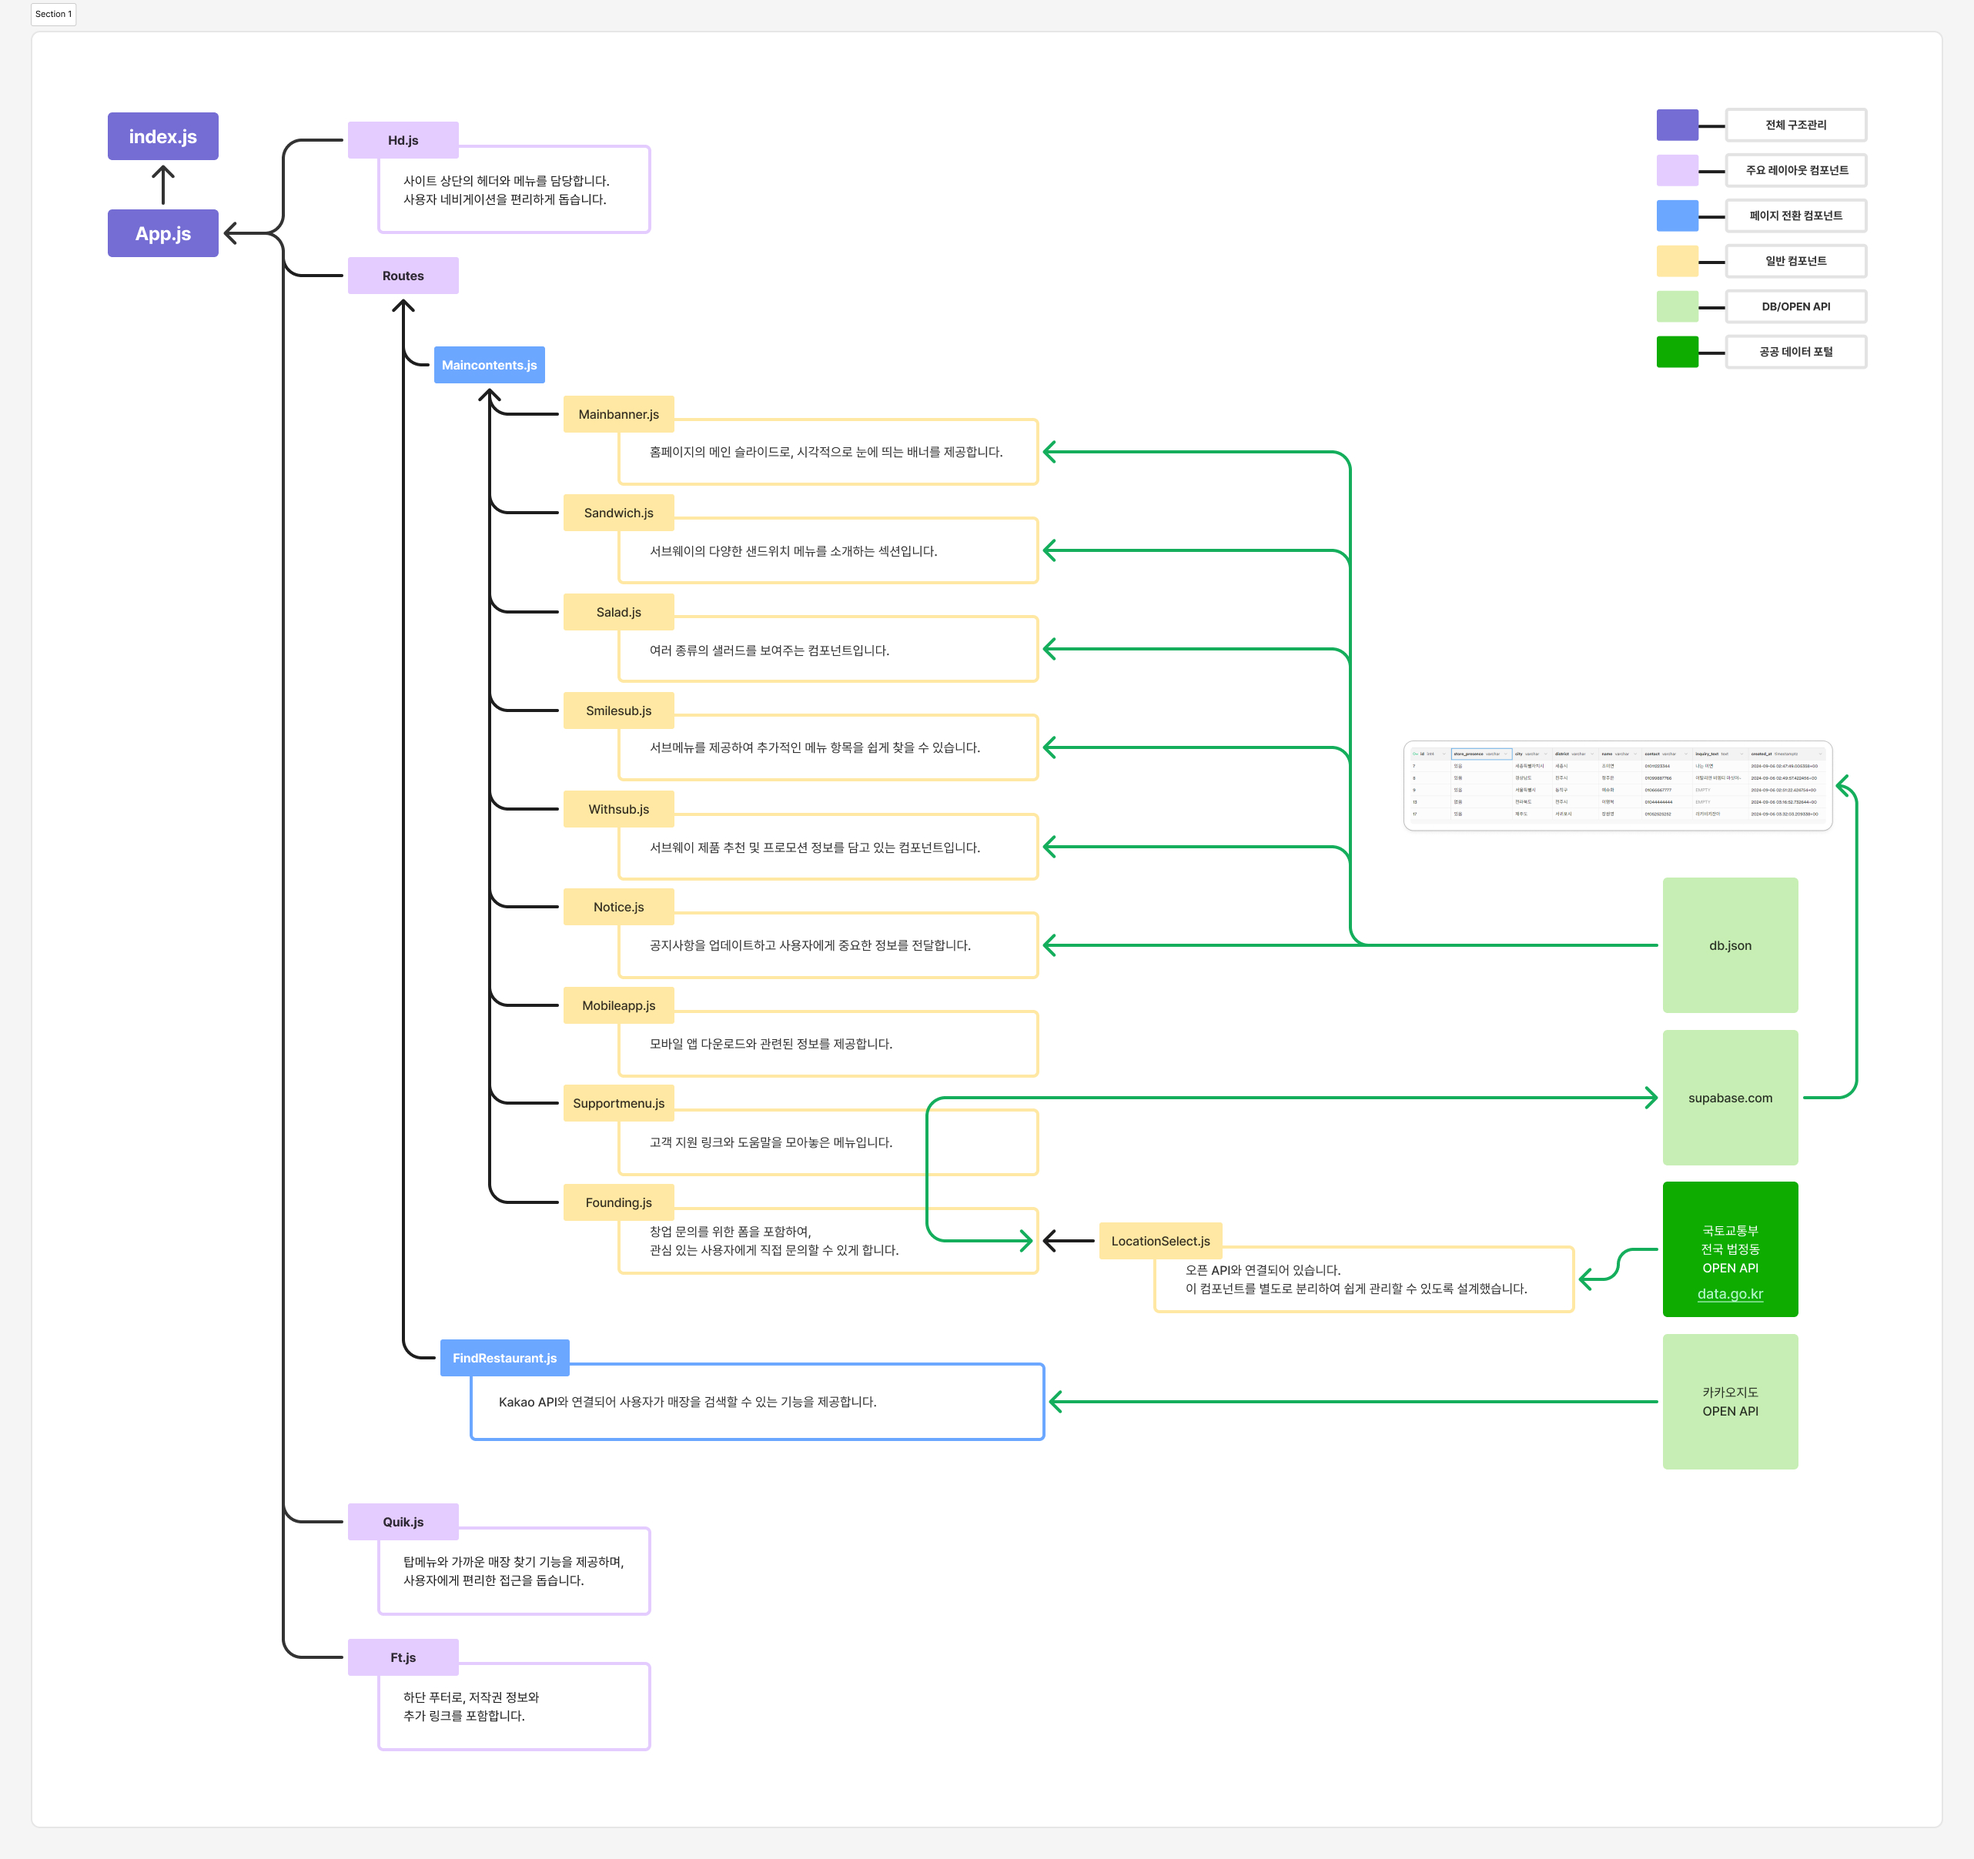
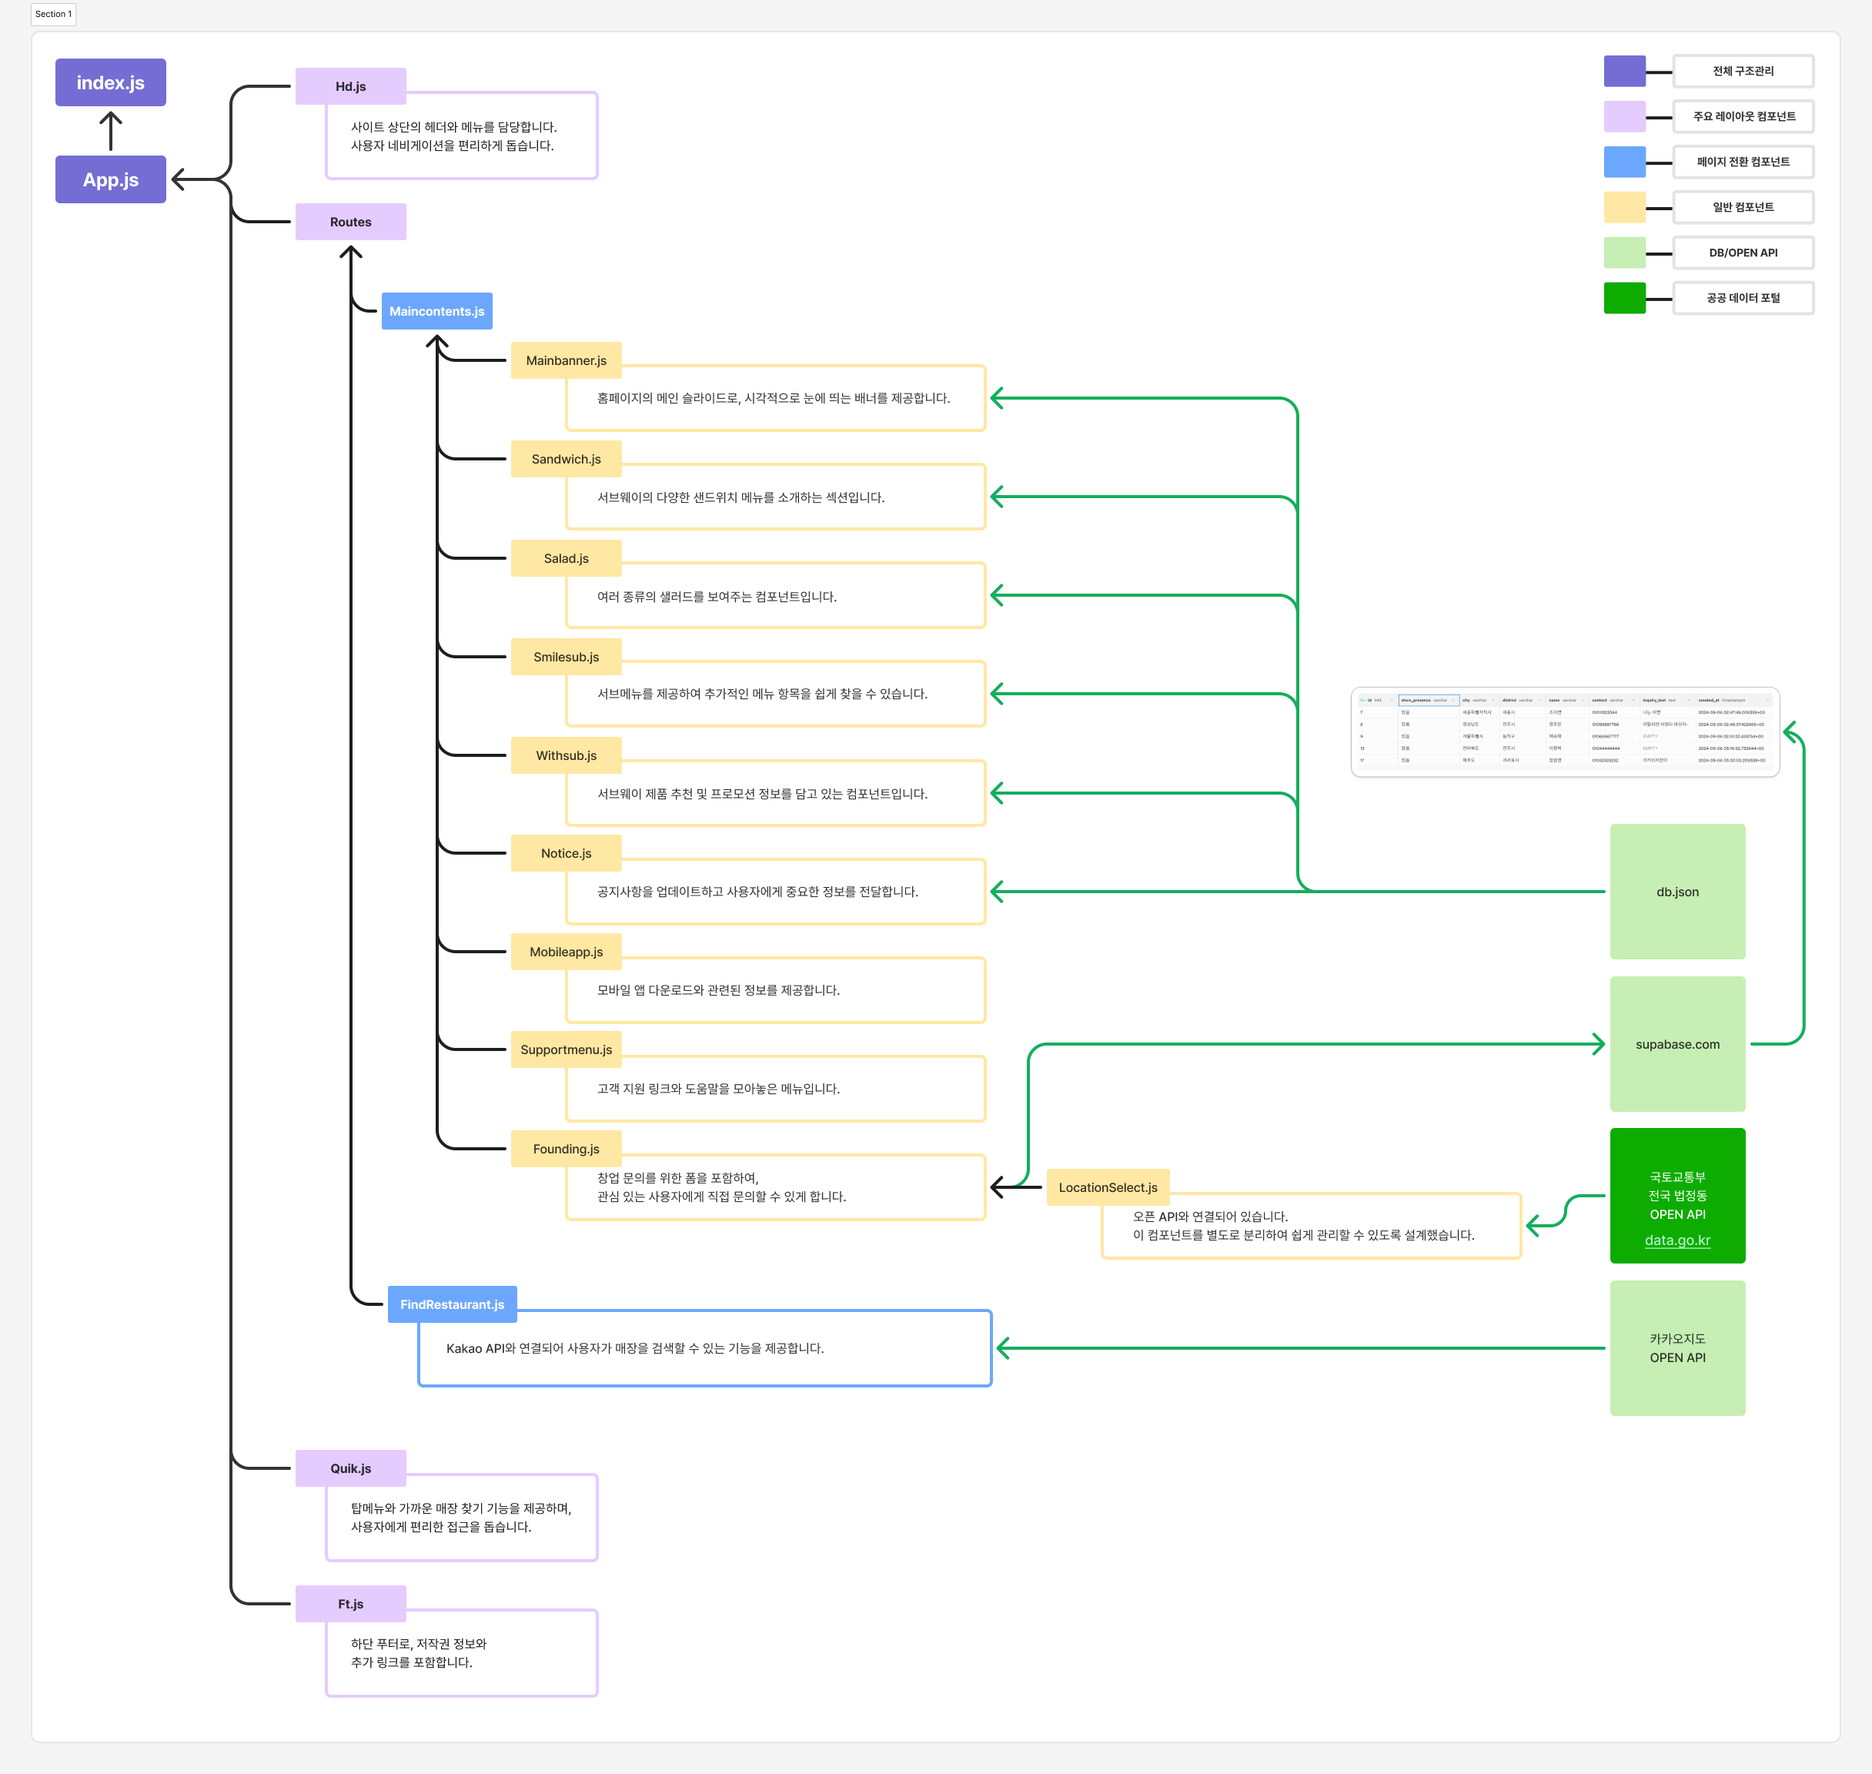
깃 이그노어 추가, 리드미 사진변경, Founding 폼 수정, 수파베이스 클라이언트 추가

Changed region(s): [[0.0312, 0.0312, 0.9688, 0.8125], [0.8125, 0.0312, 0.9688, 0.2188], [0.125, 0.7812, 0.3438, 0.9688]]

diff --git a/src/component/Founding.js b/src/component/Founding.js
@@ -56,7 +56,7 @@ function Founding() {
 
     return (
         <div className="founding">
-            <div className={`foundingcon container-lg px-0 d-flex align-items-center ${isVisible ? '' : 'd-none'}`}>
+            <div className={`foundingcon container-lg px-0 d-flex align-items-center ${isVisible ? 'd-none' : ''}`}>
                 <div className='col-lg-6 d-flex flex-column align-items-end'>
                     <div className="textwrap col-lg-6">
                         <h3>02-797-5036</h3>

diff --git a/src/data/supabaseClient.js b/src/data/supabaseClient.js
@@ -1,0 +1,6 @@
+import { createClient } from '@supabase/supabase-js';
+
+const supabaseUrl = process.env.REACT_APP_SUPABASE_URL;
+const supabaseAnonKey = process.env.REACT_APP_SUPABASE_ANON_KEY;
+
+export const supabase = createClient(supabaseUrl, supabaseAnonKey);
